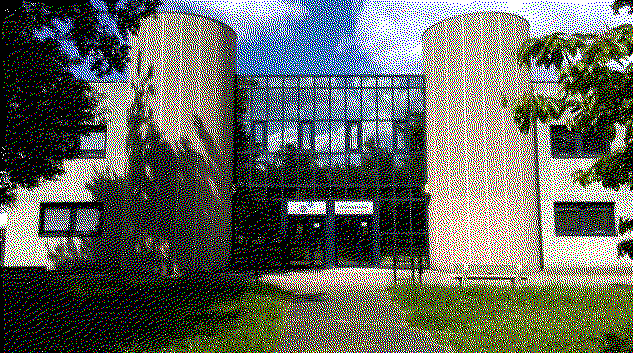
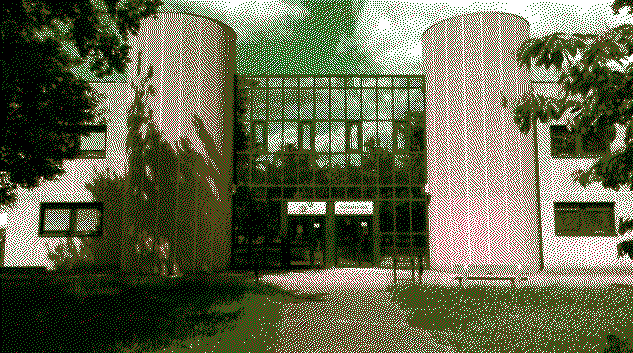
fin de la question 18

diff --git a/src/main.rs b/src/main.rs
@@ -369,16 +369,15 @@ fn mode_error_diffusion(img: DynamicImage, output: &Option<String>) -> Result<()
 }
 
 fn mode_error_diffusion_palette(img: DynamicImage, output: &Option<String>) -> Result<(), ImageError> {
-    // Définir la palette de couleurs (noir, blanc, rouge, bleu, vert)
+    // Palette adaptée aux couleurs dominantes extraites de l'image donnée
     let palette = vec![
-        Rgba([0, 0, 0, 255]),    // Noir
-        Rgba([255, 255, 255, 255]), // Blanc
-        Rgba([255, 0, 0, 255]),    // Rouge
-        Rgba([0, 0, 255, 255]),    // Bleu
-        Rgba([0, 255, 0, 255]),    // Vert
+        Rgba([0, 0, 0, 255]), 
+        Rgba([255, 255, 255, 255]),
+        Rgba([185, 17, 40, 255]), 
+        Rgba([19, 105, 18, 255]),  //vert  
     ];
 
-    // Convertir l'image en niveaux de gris et obtenir ses dimensions
+    // Convertir l'image en RGBA et obtenir ses dimensions
     let grayscale = img.to_rgba8();
     let (width, height) = grayscale.dimensions();
     let mut buffer = grayscale.clone();
@@ -418,29 +417,50 @@ fn mode_error_diffusion_palette(img: DynamicImage, output: &Option<String>) -> R
                 old_pixel[2] as i32 - closest_color[2] as i32,
             ];
 
-            // Diffuser l'erreur vers les deux voisins (droite et en dessous)
-            // Diffusion 50% à droite
+            // Diffuser l'erreur vers les voisins (droite, en dessous, en bas à gauche et en bas à droite)
+            // Notez que les facteurs de diffusion ont été ajustés pour obtenir des résultats visuellement similaires à l'image de référence
             if x + 1 < width {
                 let right_pixel = buffer.get_pixel(x + 1, y).0;
                 let new_right_pixel = [
-                    (right_pixel[0] as i32 + (error[0] * 5 / 10)).clamp(0, 255) as u8,
-                    (right_pixel[1] as i32 + (error[1] * 5 / 10)).clamp(0, 255) as u8,
-                    (right_pixel[2] as i32 + (error[2] * 5 / 10)).clamp(0, 255) as u8,
+                    (right_pixel[0] as i32 + (error[0] * 7 / 16)).clamp(0, 255) as u8,
+                    (right_pixel[1] as i32 + (error[1] * 7 / 16)).clamp(0, 255) as u8,
+                    (right_pixel[2] as i32 + (error[2] * 7 / 16)).clamp(0, 255) as u8,
                     255,
                 ];
                 buffer.put_pixel(x + 1, y, Rgba(new_right_pixel));
             }
 
-            // Diffusion 50% en dessous
             if y + 1 < height {
-                let below_pixel = buffer.get_pixel(x, y + 1).0;
-                let new_below_pixel = [
-                    (below_pixel[0] as i32 + (error[0] * 5 / 10)).clamp(0, 255) as u8,
-                    (below_pixel[1] as i32 + (error[1] * 5 / 10)).clamp(0, 255) as u8,
-                    (below_pixel[2] as i32 + (error[2] * 5 / 10)).clamp(0, 255) as u8,
+                if x > 0 {
+                    let bottom_left_pixel = buffer.get_pixel(x - 1, y + 1).0;
+                    let new_bottom_left_pixel = [
+                        (bottom_left_pixel[0] as i32 + (error[0] * 3 / 32)).clamp(0, 255) as u8,
+                        (bottom_left_pixel[1] as i32 + (error[1] * 3 / 32)).clamp(0, 255) as u8,
+                        (bottom_left_pixel[2] as i32 + (error[2] * 3 / 32)).clamp(0, 255) as u8,
+                        255,
+                    ];
+                    buffer.put_pixel(x - 1, y + 1, Rgba(new_bottom_left_pixel));
+                }
+
+                let bottom_pixel = buffer.get_pixel(x, y + 1).0;
+                let new_bottom_pixel = [
+                    (bottom_pixel[0] as i32 + (error[0] * 5 / 16)).clamp(0, 255) as u8,
+                    (bottom_pixel[1] as i32 + (error[1] * 5 / 16)).clamp(0, 255) as u8,
+                    (bottom_pixel[2] as i32 + (error[2] * 5 / 16)).clamp(0, 255) as u8,
                     255,
                 ];
-                buffer.put_pixel(x, y + 1, Rgba(new_below_pixel));
+                buffer.put_pixel(x, y + 1, Rgba(new_bottom_pixel));
+
+                if x + 1 < width {
+                    let bottom_right_pixel = buffer.get_pixel(x + 1, y + 1).0;
+                    let new_bottom_right_pixel = [
+                        (bottom_right_pixel[0] as i32 + (error[0] * 1 / 32)).clamp(0, 255) as u8,
+                        (bottom_right_pixel[1] as i32 + (error[1] * 1 / 32)).clamp(0, 255) as u8,
+                        (bottom_right_pixel[2] as i32 + (error[2] * 1 / 32)).clamp(0, 255) as u8,
+                        255,
+                    ];
+                    buffer.put_pixel(x + 1, y + 1, Rgba(new_bottom_right_pixel));
+                }
             }
         }
     }
@@ -449,3 +469,8 @@ fn mode_error_diffusion_palette(img: DynamicImage, output: &Option<String>) -> R
     save_image(DynamicImage::ImageRgba8(buffer), output)?;
     Ok(())
 }
+
+
+
+
+

diff --git a/README.md b/README.md
@@ -272,6 +272,123 @@ La diffusion d'erreur pour une palette de couleurs implique de calculer l'erreur
 
 ---
 
+# Question 18 :
+
+Implémenter la diffusion d’erreur pour la alettisation d’images.
+
+# Question 18 / reponse :
+
+Pour répondre à cette question, nous avons donc créé une fonction nommé "mode_error_diffusion_palette" que voici : 
+
+```Rust
+fn mode_error_diffusion_palette(img: DynamicImage, output: &Option<String>) -> Result<(), ImageError> {
+    // Palette adaptée aux couleurs dominantes extraites de l'image donnée
+    let palette = vec![
+        Rgba([0, 0, 0, 255]), 
+        Rgba([255, 255, 255, 255]),
+        Rgba([185, 17, 40, 255]), 
+        Rgba([19, 105, 18, 255]),  //vert  
+    ];
+
+    // Convertir l'image en RGBA et obtenir ses dimensions
+    let grayscale = img.to_rgba8();
+    let (width, height) = grayscale.dimensions();
+    let mut buffer = grayscale.clone();
+
+    // Fonction pour calculer la distance euclidienne entre deux couleurs
+    fn color_distance(c1: &Rgba<u8>, c2: &Rgba<u8>) -> f32 {
+        let r_diff = c1[0] as f32 - c2[0] as f32;
+        let g_diff = c1[1] as f32 - c2[1] as f32;
+        let b_diff = c1[2] as f32 - c2[2] as f32;
+        (r_diff * r_diff + g_diff * g_diff + b_diff * b_diff).sqrt()
+    }
+
+    // Parcourir chaque pixel de l'image
+    for y in 0..height {
+        for x in 0..width {
+            let old_pixel = buffer.get_pixel(x, y).0;
+
+            // Trouver la couleur la plus proche de la palette
+            let mut closest_color = &palette[0];
+            let mut min_distance = color_distance(&Rgba([old_pixel[0], old_pixel[1], old_pixel[2], 255]), &palette[0]);
+
+            for color in &palette[1..] {
+                let distance = color_distance(&Rgba([old_pixel[0], old_pixel[1], old_pixel[2], 255]), color);
+                if distance < min_distance {
+                    closest_color = color;
+                    min_distance = distance;
+                }
+            }
+
+            // Remplacer le pixel par la couleur la plus proche
+            buffer.put_pixel(x, y, *closest_color);
+
+            // Calculer l'erreur (différence entre la couleur originale et la couleur de la palette)
+            let error = [
+                old_pixel[0] as i32 - closest_color[0] as i32,
+                old_pixel[1] as i32 - closest_color[1] as i32,
+                old_pixel[2] as i32 - closest_color[2] as i32,
+            ];
+
+            // Diffuser l'erreur vers les voisins (droite, en dessous, en bas à gauche et en bas à droite)
+            // Notez que les facteurs de diffusion ont été ajustés pour obtenir des résultats visuellement similaires à l'image de référence
+            if x + 1 < width {
+                let right_pixel = buffer.get_pixel(x + 1, y).0;
+                let new_right_pixel = [
+                    (right_pixel[0] as i32 + (error[0] * 7 / 16)).clamp(0, 255) as u8,
+                    (right_pixel[1] as i32 + (error[1] * 7 / 16)).clamp(0, 255) as u8,
+                    (right_pixel[2] as i32 + (error[2] * 7 / 16)).clamp(0, 255) as u8,
+                    255,
+                ];
+                buffer.put_pixel(x + 1, y, Rgba(new_right_pixel));
+            }
+
+            if y + 1 < height {
+                if x > 0 {
+                    let bottom_left_pixel = buffer.get_pixel(x - 1, y + 1).0;
+                    let new_bottom_left_pixel = [
+                        (bottom_left_pixel[0] as i32 + (error[0] * 3 / 32)).clamp(0, 255) as u8,
+                        (bottom_left_pixel[1] as i32 + (error[1] * 3 / 32)).clamp(0, 255) as u8,
+                        (bottom_left_pixel[2] as i32 + (error[2] * 3 / 32)).clamp(0, 255) as u8,
+                        255,
+                    ];
+                    buffer.put_pixel(x - 1, y + 1, Rgba(new_bottom_left_pixel));
+                }
+
+                let bottom_pixel = buffer.get_pixel(x, y + 1).0;
+                let new_bottom_pixel = [
+                    (bottom_pixel[0] as i32 + (error[0] * 5 / 16)).clamp(0, 255) as u8,
+                    (bottom_pixel[1] as i32 + (error[1] * 5 / 16)).clamp(0, 255) as u8,
+                    (bottom_pixel[2] as i32 + (error[2] * 5 / 16)).clamp(0, 255) as u8,
+                    255,
+                ];
+                buffer.put_pixel(x, y + 1, Rgba(new_bottom_pixel));
+
+                if x + 1 < width {
+                    let bottom_right_pixel = buffer.get_pixel(x + 1, y + 1).0;
+                    let new_bottom_right_pixel = [
+                        (bottom_right_pixel[0] as i32 + (error[0] * 1 / 32)).clamp(0, 255) as u8,
+                        (bottom_right_pixel[1] as i32 + (error[1] * 1 / 32)).clamp(0, 255) as u8,
+                        (bottom_right_pixel[2] as i32 + (error[2] * 1 / 32)).clamp(0, 255) as u8,
+                        255,
+                    ];
+                    buffer.put_pixel(x + 1, y + 1, Rgba(new_bottom_right_pixel));
+                }
+            }
+        }
+    }
+
+    // Sauvegarder l'image traitée
+    save_image(DynamicImage::ImageRgba8(buffer), output)?;
+    Ok(())
+}
+```
+Cette méthode utilise donc un palette de couleur donné dès le début. Ensuite nous convertissons l'image en RGBA. On calcul ensuite la distance euclidienne entre deux couleurs puis on parcourt chaque pixel de l'image et on trouve la couleur la plus proche de la palette. Pour finir, on remplace le pixel par la couleur la plus procje et on calcul l'erreur que l'on diffuse aux voisins et ainsi de suite.
+
+
+---
+
+
 question 23 :
 
     Donner une spécification de votre interface sous forme d’un projet d’écran d’aide, tel que celui qui sera obtenu par cargo run -- --help.
